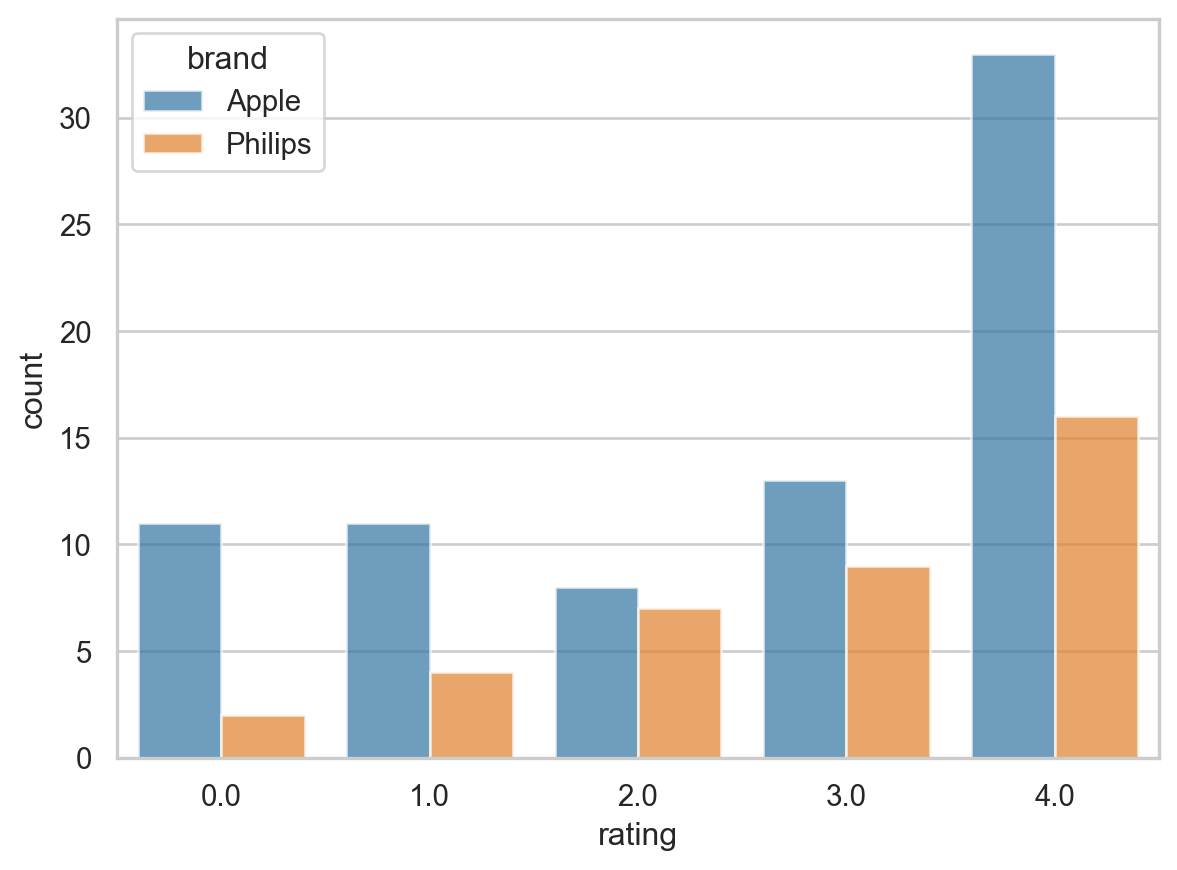
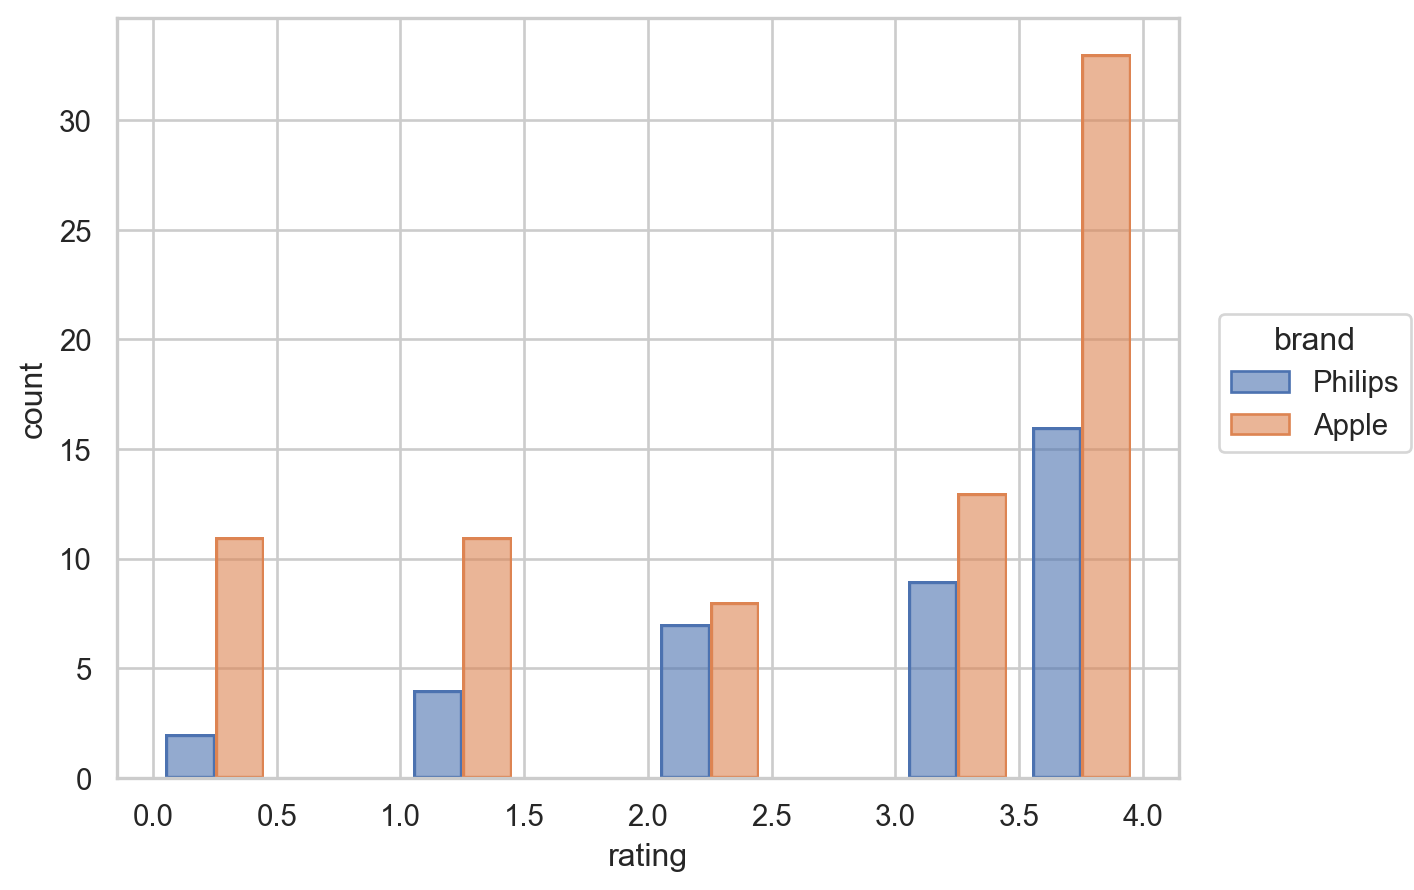
Update ratings_inference post: reorder EDA text, migrate plots to seaborn objects API, update figures

diff --git a/docs/posts/ratings_inference/index.html b/docs/posts/ratings_inference/index.html
@@ -241,7 +241,7 @@ window.Quarto = {
 <section id="data" class="level2">
 <h2 class="anchored" data-anchor-id="data">Data</h2>
 <p>Electronics product rating dataset is used in the study. The dataset contains user ratings for various electronic products, with each rating on a scale from 1-5 (converted to 0-4). For this article a subset of <code>Headphones</code> in the data, from brands <em>Philips and Apple</em> is used. The study focuses on 1 particular product from each of these brands to make a comparative assessment.</p>
-<div id="c43712d4" class="cell" data-execution_count="2">
+<div id="65651359" class="cell" data-execution_count="2">
 <div class="cell-output cell-output-display">
 <div>
 
@@ -326,26 +326,33 @@ window.Quarto = {
 <section id="eda" class="level3">
 <h3 class="anchored" data-anchor-id="eda">EDA</h3>
 <p>Average ratings for brands is close and it appears that there is some degree of variability in the ratings. This variability can hide true differences between brands.</p>
-<div id="de7d467e" class="cell" data-execution_count="3">
+<p>There is visible overlap of standard errors and so at this point it is hard to say which brand is more favorably rated given the variability.</p>
+<div id="05f2be1b" class="cell" data-execution_count="3">
+<div class="cell-output cell-output-display" data-execution_count="77">
+<div>
+<figure class="figure">
+<p><img src="index_files/figure-html/cell-4-output-1.png" width="690" height="381" class="figure-img"></p>
+</figure>
+</div>
+</div>
 <div class="cell-output cell-output-display">
 <div>
 <figure class="figure">
-<p><img src="index_files/figure-html/cell-4-output-1.png" width="752" height="368" class="figure-img"></p>
+<p><img src="index_files/figure-html/cell-4-output-2.png" width="690" height="381" class="figure-img"></p>
 </figure>
 </div>
 </div>
 </div>
 <p>The distribution of ratings for these brands has distinct patterns, while users seem to have more even views on <em>Apple</em> (commonly rate 0 to 3), Philips has a more favourable set of ratings with fewer 0 Stars proportionally.</p>
-<div id="c483058f" class="cell" data-execution_count="4">
-<div class="cell-output cell-output-display">
+<div id="98ebc656" class="cell" data-execution_count="4">
+<div class="cell-output cell-output-display" data-execution_count="78">
 <div>
 <figure class="figure">
-<p><img src="index_files/figure-html/cell-5-output-1.png" width="589" height="435" class="figure-img"></p>
+<p><img src="index_files/figure-html/cell-5-output-1.png" width="707" height="445" class="figure-img"></p>
 </figure>
 </div>
 </div>
 </div>
-<p>There is visible overlap of standard errors and so at this point it is hard to say which brand is more favorably rated given the variability.</p>
 </section>
 </section>
 <section id="analysis" class="level2">
@@ -353,7 +360,7 @@ window.Quarto = {
 <section id="baseline-approach" class="level3">
 <h3 class="anchored" data-anchor-id="baseline-approach">Baseline approach</h3>
 <p>To establish a sensible baseline for comparing ratings, a simulation can be set up such that sampling ratings for each brand and then comparing differences in their mean gives us an intuitive and meaningful picture about what to expect in data. <br></p>
-<div id="fdc2f3c6" class="cell" data-execution_count="5">
+<div id="dcfbea90" class="cell" data-execution_count="5">
 <div class="cell-output cell-output-display">
 <div>
 <figure class="figure">
@@ -365,7 +372,7 @@ window.Quarto = {
 <pre><code>
 Bootstrap Test Results:
   Observed difference (Philips - Apple): 0.2632
-  Two-tailed p-value: 0.5314
+  Two-tailed p-value: 0.5434
   Significant at α=0.05: No
 
 Probability Ratio:
@@ -384,8 +391,8 @@ Probability Ratio:
 <p>To model a single user’s preference needs a hierarchical approach, where individual user preferences are drawn from a common distribution, capturing the variability across users. The end result is not just a single value of <em>p</em> for a user but rather a range of possible values with different likelihood based on how the user has rated the product.</p>
 <p>For e.g.&nbsp;if a user who has rated the product <em>3</em> star is considered, then the likelihood of their preference <em>p</em> would be greater (around 0.65 value), but it may still be possible that their preference is some other value with a lower likelihood.</p>
 <p><em>For a refresher on likelihood theory refer <a href="https://prteek.github.io/regression_room/posts/likelihood_primer/">likelihood primer</a></em></p>
-<div id="26550844" class="cell" data-execution_count="6">
-<div class="cell-output cell-output-display" data-execution_count="24">
+<div id="6a130de9" class="cell" data-execution_count="6">
+<div class="cell-output cell-output-display" data-execution_count="80">
 <div>
 <figure class="figure">
 <p><img src="index_files/figure-html/cell-7-output-1.png" width="599" height="445" class="figure-img"></p>
@@ -415,7 +422,7 @@ Probability Ratio:
 </section>
 <section id="maximum-likelihood-estimation" class="level4">
 <h4 class="anchored" data-anchor-id="maximum-likelihood-estimation">Maximum Likelihood Estimation</h4>
-<div id="cb1a810f" class="cell" data-cache="true" data-execution_count="9">
+<div id="97fc665b" class="cell" data-cache="true" data-execution_count="9">
 <div class="cell-output cell-output-stdout">
 <pre><code>Beta-Binomial MLE:
   α = 0.668900
@@ -434,7 +441,7 @@ with standard deviation ±33.5%</code></pre>
 <section id="goodness-of-fit" class="level4">
 <h4 class="anchored" data-anchor-id="goodness-of-fit">Goodness of fit</h4>
 <p>Goodness of fit can be assessed by comparing counts from the Beta-binomial model using MLE estimates, to actual counts at different rating values. The counts are close and model is satisfactory for this data.</p>
-<div id="9c8f07fa" class="cell" data-execution_count="10">
+<div id="1b69bae3" class="cell" data-execution_count="10">
 <div class="cell-output cell-output-stdout">
 <pre><code>
 Model check:
@@ -450,14 +457,14 @@ Model check:
 <section id="profile-likelihood-of-p" class="level4">
 <h4 class="anchored" data-anchor-id="profile-likelihood-of-p">Profile likelihood of <em>p</em></h4>
 <p>For Beta-Binomial, we fix E[p] and optimize α.</p>
-<div id="06f7c74c" class="cell" data-cache="true" data-execution_count="11">
+<div id="d55bacce" class="cell" data-cache="true" data-execution_count="11">
 <div class="cell-output cell-output-stdout">
 <pre><code>Profile likelihood MLE: p = 0.657895
 Joint optimization MLE: p = 0.653064
 Difference: 0.004831</code></pre>
 </div>
 </div>
-<div id="221d4ea5" class="cell" data-execution_count="12">
+<div id="6c1dc887" class="cell" data-execution_count="12">
 <div class="cell-output cell-output-display">
 <div>
 <figure class="figure">
@@ -504,7 +511,7 @@ Difference: 0.004831</code></pre>
 <section id="profile-likelihood-for-comparing-brands" class="level4">
 <h4 class="anchored" data-anchor-id="profile-likelihood-for-comparing-brands">Profile Likelihood for Comparing Brands</h4>
 <p>Following the same structure as the single-brand analysis, we compute the profile likelihood of <span class="math inline">\(\theta\)</span> by fixing it and optimizing over the nuisance parameters.</p>
-<div id="80205ed4" class="cell" data-execution_count="14">
+<div id="47e80504" class="cell" data-execution_count="14">
 <div class="cell-output cell-output-stdout">
 <pre><code>Computing profile likelihood...
   5/20 complete
@@ -514,7 +521,7 @@ Difference: 0.004831</code></pre>
 MLE: θ = 0.315789</code></pre>
 </div>
 </div>
-<div id="44f4401c" class="cell" data-execution_count="15">
+<div id="f8ae9ddb" class="cell" data-execution_count="15">
 <div class="cell-output cell-output-stdout">
 <pre><code>
 95% Likelihood-based Confidence Interval for θ:
@@ -522,7 +529,7 @@ MLE: θ = 0.315789</code></pre>
   Excludes zero: False</code></pre>
 </div>
 </div>
-<div id="5f08cd85" class="cell" data-execution_count="16">
+<div id="b15d7eed" class="cell" data-execution_count="16">
 <div class="cell-output cell-output-display">
 <div>
 <figure class="figure">
@@ -531,7 +538,7 @@ MLE: θ = 0.315789</code></pre>
 </div>
 </div>
 </div>
-<div id="e6a77586" class="cell" data-execution_count="17">
+<div id="8aad90f0" class="cell" data-execution_count="17">
 <div class="cell-output cell-output-stdout">
 <pre><code>
 Profile Likelihood Summary:
@@ -551,7 +558,7 @@ Profile Likelihood Summary:
 </section>
 <section id="cross-method-consistency" class="level3">
 <h3 class="anchored" data-anchor-id="cross-method-consistency">Cross-method Consistency</h3>
-<div id="a8d5a54e" class="cell" data-execution_count="18">
+<div id="3312e510" class="cell" data-execution_count="18">
 <div class="cell-output cell-output-stdout">
 <pre><code>Consistency Check: Data vs. Profile Likelihood
 

diff --git a/docs/index.html b/docs/index.html
@@ -210,7 +210,7 @@ window.Quarto = {
     </div>
 </div>
 <div class="list quarto-listing-default">
-<div class="quarto-post image-right" data-index="0" data-categories="aW5mZXJlbmNlJTJDbGlrZWxpaG9vZCUyQ2Rpc3BlcnNpb24=" data-listing-date-sort="1776207600000" data-listing-file-modified-sort="1780919000469" data-listing-date-modified-sort="NaN" data-listing-reading-time-sort="18" data-listing-word-count-sort="3487">
+<div class="quarto-post image-right" data-index="0" data-categories="aW5mZXJlbmNlJTJDbGlrZWxpaG9vZCUyQ2Rpc3BlcnNpb24=" data-listing-date-sort="1776207600000" data-listing-file-modified-sort="1780997907235" data-listing-date-modified-sort="NaN" data-listing-reading-time-sort="18" data-listing-word-count-sort="3506">
 <div class="thumbnail"><a href="./posts/ratings_inference/index.html" class="no-external">
 
 <img loading="lazy" src="./posts/ratings_inference/ratings.png" class="thumbnail-image">
